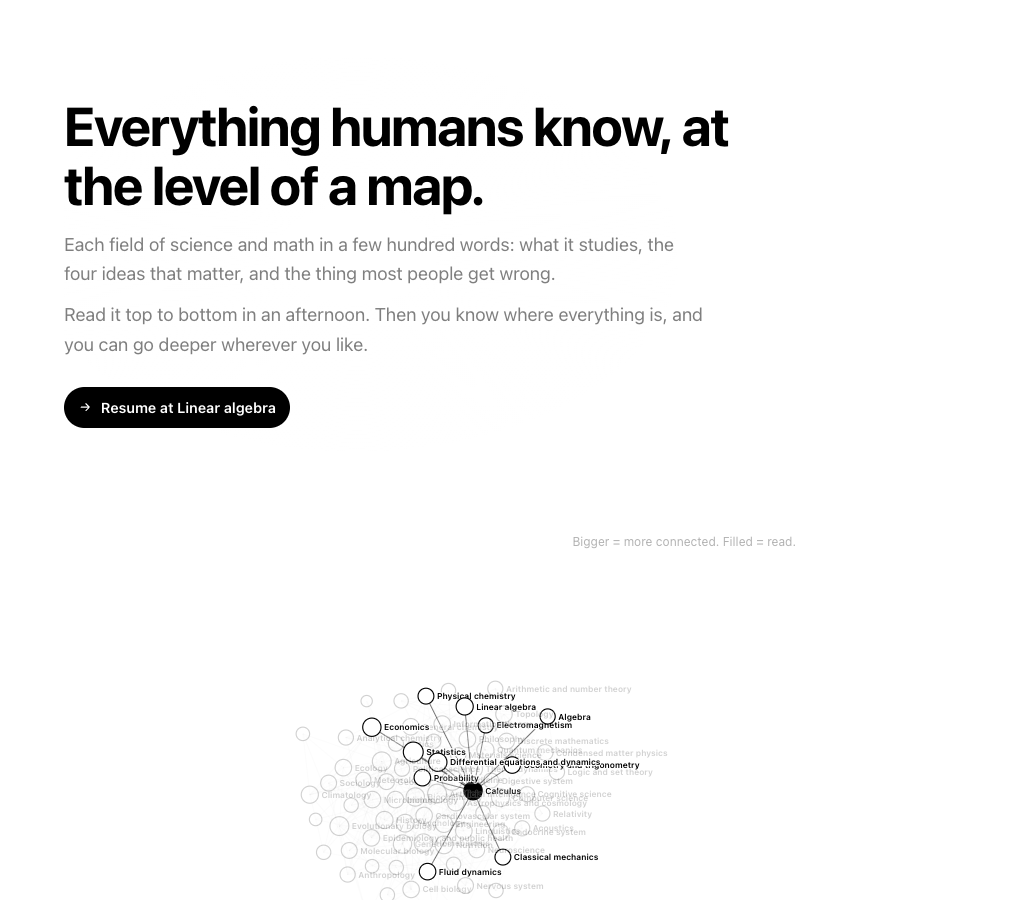
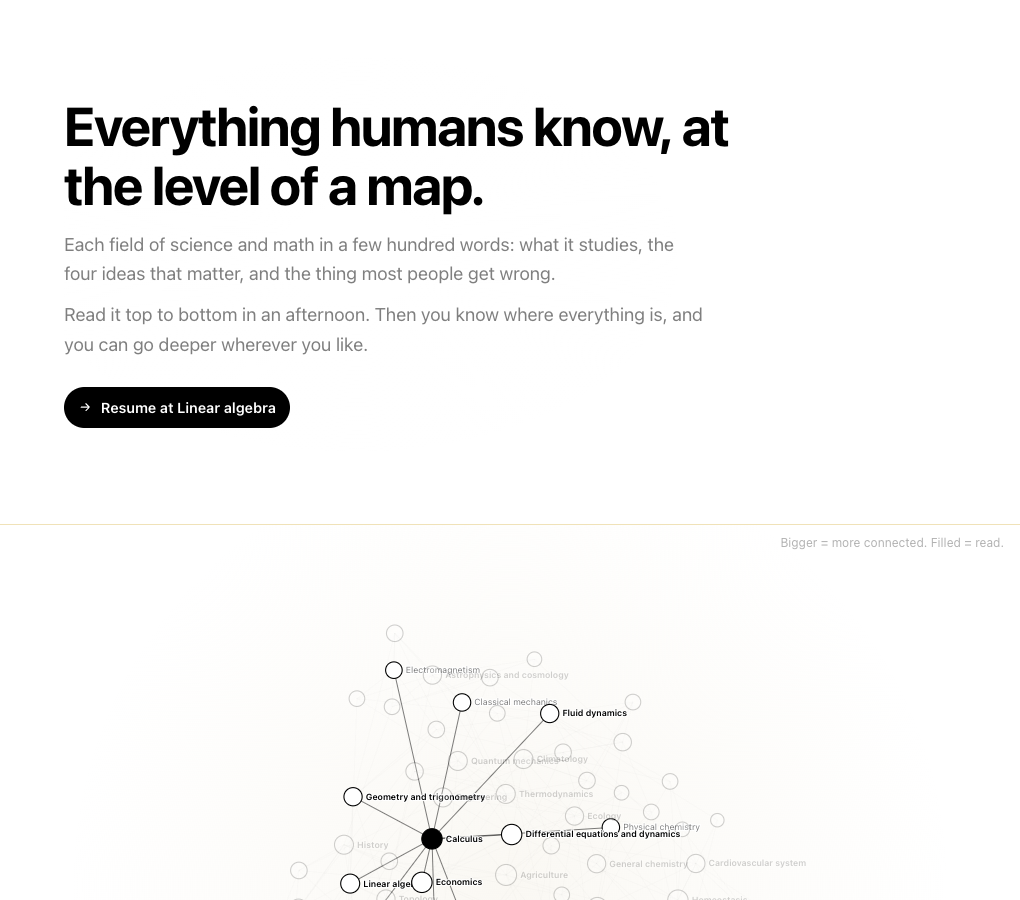
Map on d3-force: domain clusters, hubs radial to centre, zoom, pan, drag, fit
Claude-Session: https://claude.ai/code/session_014TrVy5Miet2NdTomjRm612

diff --git a/index.html b/index.html
@@ -12,6 +12,7 @@
 <style>
   *, *::before, *::after { box-sizing: border-box; margin: 0; padding: 0; }
   html { scroll-behavior: smooth; }
+  .map { border-top: 1px solid var(--border, #eee); border-bottom: 1px solid var(--border, #eee); overflow: hidden; }
   body { background: var(--bg, #fafafa); color: var(--text, #111); font-family: var(--font-body, -apple-system, "Helvetica Neue", Helvetica, Arial, sans-serif); line-height: 1.6; -webkit-font-smoothing: antialiased; }
   a { color: inherit; text-decoration: none; }
   button { font: inherit; color: inherit; background: none; border: 0; cursor: pointer; }
@@ -146,6 +147,11 @@
   .map.focus .node { opacity: .18; }
   .map.focus .node.on { opacity: 1; }
   .map.focus .node.on text { opacity: 1; }
+  .map .fit { position: absolute; right: 1rem; bottom: .75rem; font-size: .8rem; font-weight: 600; padding: .35rem .8rem; border-radius: 999px; border: 1px solid var(--border2, #ddd); background: var(--glass); -webkit-backdrop-filter: blur(12px); backdrop-filter: blur(12px); }
+  .map svg { cursor: grab; background: radial-gradient(circle at 50% 50%, var(--bg2, #f5f5f5) 0%, transparent 70%); }
+  .map svg:active { cursor: grabbing; }
+  .map.zoomed .node text { opacity: 1; }
+  .map .node text { font-size: 12px; }
   .map .hint { position: absolute; left: 1rem; bottom: .75rem; font-size: .75rem; color: var(--text3, #999); pointer-events: none; }
   .map .legend { position: absolute; right: 1rem; top: .5rem; font-size: .75rem; color: var(--text3, #999); pointer-events: none; }
 </style>
@@ -180,11 +186,12 @@
       <p>Read it top to bottom in an afternoon. Then you know where everything is, and you can go deeper wherever you like.</p>
       <a class="resume" id="resume" href="#"><svg class="icon" aria-hidden="true"><use href="#i-resume"/></svg><span></span></a>
     </div>
-    <div class="map" id="map"><svg id="graph" role="img" aria-label="Map of every field, linked to its neighbours"></svg><div class="legend">Bigger = more connected. Filled = read.</div><div class="hint">Hover to see a field's neighbours. Click to jump. Drag to rearrange.</div></div>
+    <div class="map" id="map"><svg id="graph" role="img" aria-label="Map of every field, linked to its neighbours"></svg><div class="legend">Bigger = more connected. Filled = read.</div><div class="hint">Hover for neighbours. Click to jump. Drag, scroll to zoom.</div><button class="fit" id="fit" aria-label="Reset view">Fit</button></div>
     <div id="content"></div>
     <footer>Fieldbook is a map, not the territory. Mark a field read to keep your place. Nothing leaves your browser.</footer>
   </main>
 </div>
+<script src="https://cdnjs.cloudflare.com/ajax/libs/d3/7.9.0/d3.min.js"></script>
 <script src="data.js"></script>
 <script>
   const slug = s => s.toLowerCase().replace(/[^a-z0-9]+/g, '-').replace(/(^-|-$)/g, '');
@@ -218,70 +225,59 @@
   }
 
 
-  // ---- graph ----
-  // ponytail: hand-rolled force layout, 76 nodes, O(n^2) repulsion is nothing. d3 if it ever grows past a few hundred.
+  // ---- graph (d3-force) ----
   (() => {
-    const svg = document.getElementById('graph'), map = document.getElementById('map');
-    const W = 1400, H = 820; svg.setAttribute('viewBox', `0 0 ${W} ${H}`);
-    const byName = Object.fromEntries(FIELDS.map(f => [f.n, f]));
-    const N = FIELDS.map((f, i) => ({ f, id: slug(f.n), i, x: W / 2 + (Math.random() - .5) * 400, y: H / 2 + (Math.random() - .5) * 240, vx: 0, vy: 0, deg: 0, nb: new Set() }));
-    const idx = Object.fromEntries(N.map(n => [n.f.n, n]));
-    const E = [];
-    const seen = new Set();
-    FIELDS.forEach(f => f.r.forEach(r => { if (!byName[r]) return; const k = [f.n, r].sort().join('|'); if (seen.has(k)) return; seen.add(k); const a = idx[f.n], b = idx[r]; E.push([a, b]); a.deg++; b.deg++; a.nb.add(b); b.nb.add(a); }));
-    N.forEach(n => n.r = 3 + 2.6 * Math.sqrt(n.deg));
-    const maxDeg = Math.max(...N.map(n => n.deg));
+    const svg = d3.select('#graph'), map = document.getElementById('map');
+    const W = 1400, H = 860; svg.attr('viewBox', `0 0 ${W} ${H}`);
+    const domains = [...new Set(FIELDS.map(f => f.d))];
+    const nodes = FIELDS.map(f => ({ id: slug(f.n), f, deg: 0 }));
+    const byName = Object.fromEntries(nodes.map(n => [n.f.n, n]));
+    const seen = new Set(), links = [];
+    FIELDS.forEach(f => f.r.forEach(r => { const k = [f.n, r].sort().join('|'); if (!byName[r] || seen.has(k)) return; seen.add(k); links.push({ source: byName[f.n], target: byName[r] }); byName[f.n].deg++; byName[r].deg++; }));
+    const maxDeg = d3.max(nodes, n => n.deg);
+    nodes.forEach(n => { n.r = 4 + 3 * Math.sqrt(n.deg); n.nb = new Set(); });
+    links.forEach(l => { l.source.nb.add(l.target); l.target.nb.add(l.source); });
+    // each domain gets a home direction around the centre so the web reads as clusters
+    const home = Object.fromEntries(domains.map((d, i) => { const a = i / domains.length * Math.PI * 2 - Math.PI / 2; return [d, { x: W / 2 + Math.cos(a) * 340, y: H / 2 + Math.sin(a) * 260 }]; }));
 
-    function tick(alpha) {
-      for (let i = 0; i < N.length; i++) for (let j = i + 1; j < N.length; j++) {
-        const a = N[i], b = N[j]; let dx = b.x - a.x, dy = b.y - a.y, d2 = dx * dx + dy * dy || 1;
-        const d = Math.sqrt(d2), min = a.r + b.r + 6;
-        let f = 6500 / d2; if (d < min) f += (min - d) * .5;   // repel, hard floor on overlap
-        dx = dx / d * f * alpha; dy = dy / d * f * alpha; a.vx -= dx; a.vy -= dy; b.vx += dx; b.vy += dy;
-      }
-      for (const [a, b] of E) {
-        const dx = b.x - a.x, dy = b.y - a.y, d = Math.hypot(dx, dy) || 1, want = 130 + (a.r + b.r);
-        const f = (d - want) * .04 * alpha; a.vx += dx / d * f; a.vy += dy / d * f; b.vx -= dx / d * f; b.vy -= dy / d * f;
-      }
-      for (const n of N) {
-        const g = (.003 + .03 * n.deg / maxDeg) * alpha;         // hubs feel more gravity: they sit in the middle
-        n.vx += (W / 2 - n.x) * g; n.vy += (H / 2 - n.y) * g;
-        if (n.fixed) { n.vx = n.vy = 0; continue; }
-        n.vx *= .6; n.vy *= .6; n.x += n.vx; n.y += n.vy;
-        n.x = Math.max(n.r + 4, Math.min(W - n.r - 4, n.x)); n.y = Math.max(n.r + 4, Math.min(H - n.r - 4, n.y));
-      }
-    }
-    for (let i = 0; i < 300; i++) tick(1 - i / 320);
+    const sim = d3.forceSimulation(nodes)
+      .force('link', d3.forceLink(links).distance(l => 60 + 40 * (l.source.f.d !== l.target.f.d)).strength(.5))
+      .force('charge', d3.forceManyBody().strength(n => -180 - 40 * n.deg))
+      .force('collide', d3.forceCollide(n => n.r + 14).iterations(2))
+      .force('x', d3.forceX(n => home[n.f.d].x).strength(.06))
+      .force('y', d3.forceY(n => home[n.f.d].y).strength(.06))
+      .force('radial', d3.forceRadial(n => 380 * (1 - n.deg / maxDeg), W / 2, H / 2).strength(n => .12 * n.deg / maxDeg))
+      .alphaDecay(.03);
 
-    const ns = 'http://www.w3.org/2000/svg', el = (t, a) => { const e = document.createElementNS(ns, t); for (const k in a) e.setAttribute(k, a[k]); return e; };
-    const gl = el('g', {}), gn = el('g', {}); svg.append(gl, gn);
-    const lines = E.map(([a, b]) => { const l = el('line', {}); l._a = a; l._b = b; gl.append(l); return l; });
-    const nodes = N.map(n => {
-      const g = el('g', { class: 'node' + (n.deg >= 6 ? ' hub' : ''), 'data-id': n.id, tabindex: 0, role: 'link', 'aria-label': n.f.n });
-      const c = el('circle', { r: n.r }), t = el('text', { x: n.r + 4, y: 4 }); t.textContent = n.f.n;
-      g.append(c, t); gn.append(g); n.el = g;
-      g.addEventListener('pointerenter', () => focus(n)); g.addEventListener('focus', () => focus(n));
-      g.addEventListener('pointerleave', unfocus); g.addEventListener('blur', unfocus);
-      g.addEventListener('click', () => { if (!n.dragged) location.hash = n.id; });
-      g.addEventListener('keydown', e => { if (e.key === 'Enter') location.hash = n.id; });
-      g.addEventListener('pointerdown', e => { n.fixed = true; n.dragged = false; g.setPointerCapture(e.pointerId); });
-      g.addEventListener('pointermove', e => { if (!n.fixed || !(e.buttons & 1)) return; const p = pt(e); n.x = p.x; n.y = p.y; n.dragged = true; settle(); });
-      g.addEventListener('pointerup', () => { n.fixed = false; settle(); });
-      return g;
+    const root = svg.append('g');
+    const link = root.append('g').selectAll('line').data(links).join('line');
+    const node = root.append('g').selectAll('g').data(nodes).join('g')
+      .attr('class', n => 'node' + (n.deg >= 8 ? ' hub' : '')).attr('data-id', n => n.id)
+      .attr('tabindex', 0).attr('role', 'link').attr('aria-label', n => n.f.n);
+    node.append('circle').attr('r', n => n.r);
+    node.append('text').attr('x', n => n.r + 5).attr('y', 4).text(n => n.f.n);
+
+    node.on('pointerenter focus', (e, n) => focus(n)).on('pointerleave blur', unfocus)
+      .on('click', (e, n) => { if (!n.dragged) location.hash = n.id; })
+      .on('keydown', (e, n) => { if (e.key === 'Enter') location.hash = n.id; })
+      .call(d3.drag()
+        .on('start', (e, n) => { n.dragged = false; if (!e.active) sim.alphaTarget(.3).restart(); n.fx = n.x; n.fy = n.y; })
+        .on('drag', (e, n) => { n.dragged = true; n.fx = e.x; n.fy = e.y; })
+        .on('end', (e, n) => { if (!e.active) sim.alphaTarget(0); n.fx = n.fy = null; }));
+
+    const zoom = d3.zoom().scaleExtent([.5, 4]).on('zoom', e => { root.attr('transform', e.transform); map.classList.toggle('zoomed', e.transform.k > 1.4); });
+    svg.call(zoom).on('dblclick.zoom', null);
+    document.getElementById('fit').onclick = () => svg.transition().duration(500).call(zoom.transform, d3.zoomIdentity);
+
+    sim.on('tick', () => {
+      link.attr('x1', l => l.source.x).attr('y1', l => l.source.y).attr('x2', l => l.target.x).attr('y2', l => l.target.y);
+      node.attr('transform', n => `translate(${n.x},${n.y})`);
     });
-    function pt(e) { const r = svg.getBoundingClientRect(); return { x: (e.clientX - r.left) / r.width * W, y: (e.clientY - r.top) / r.height * H }; }
-    function draw() {
-      lines.forEach(l => { l.setAttribute('x1', l._a.x); l.setAttribute('y1', l._a.y); l.setAttribute('x2', l._b.x); l.setAttribute('y2', l._b.y); });
-      N.forEach(n => n.el.setAttribute('transform', `translate(${n.x.toFixed(1)},${n.y.toFixed(1)})`));
-    }
-    function focus(n) { map.classList.add('focus'); n.el.classList.add('on'); n.nb.forEach(m => m.el.classList.add('on')); lines.forEach(l => l.classList.toggle('on', l._a === n || l._b === n)); }
-    function unfocus() { map.classList.remove('focus'); nodes.forEach(g => g.classList.remove('on')); lines.forEach(l => l.classList.remove('on')); }
-    let raf = 0, energy = 0;
-    function settle() { energy = 40; if (!raf) raf = requestAnimationFrame(loop); }
-    function loop() { tick(.3); draw(); raf = --energy > 0 ? requestAnimationFrame(loop) : 0; }
-    draw();
-    if (!matchMedia('(prefers-reduced-motion: reduce)').matches) settle();
-    window.paintGraph = () => N.forEach(n => n.el.classList.toggle('done', read.has(n.id)));
+    if (matchMedia('(prefers-reduced-motion: reduce)').matches) { sim.tick(300); sim.stop(); sim.on('tick')(); }
+
+    function focus(n) { map.classList.add('focus'); node.classed('on', m => m === n || n.nb.has(m)); link.classed('on', l => l.source === n || l.target === n); }
+    function unfocus() { map.classList.remove('focus'); node.classed('on', false); link.classed('on', false); }
+    window.paintGraph = () => node.classed('done', n => read.has(n.id));
     paintGraph();
   })();
 
